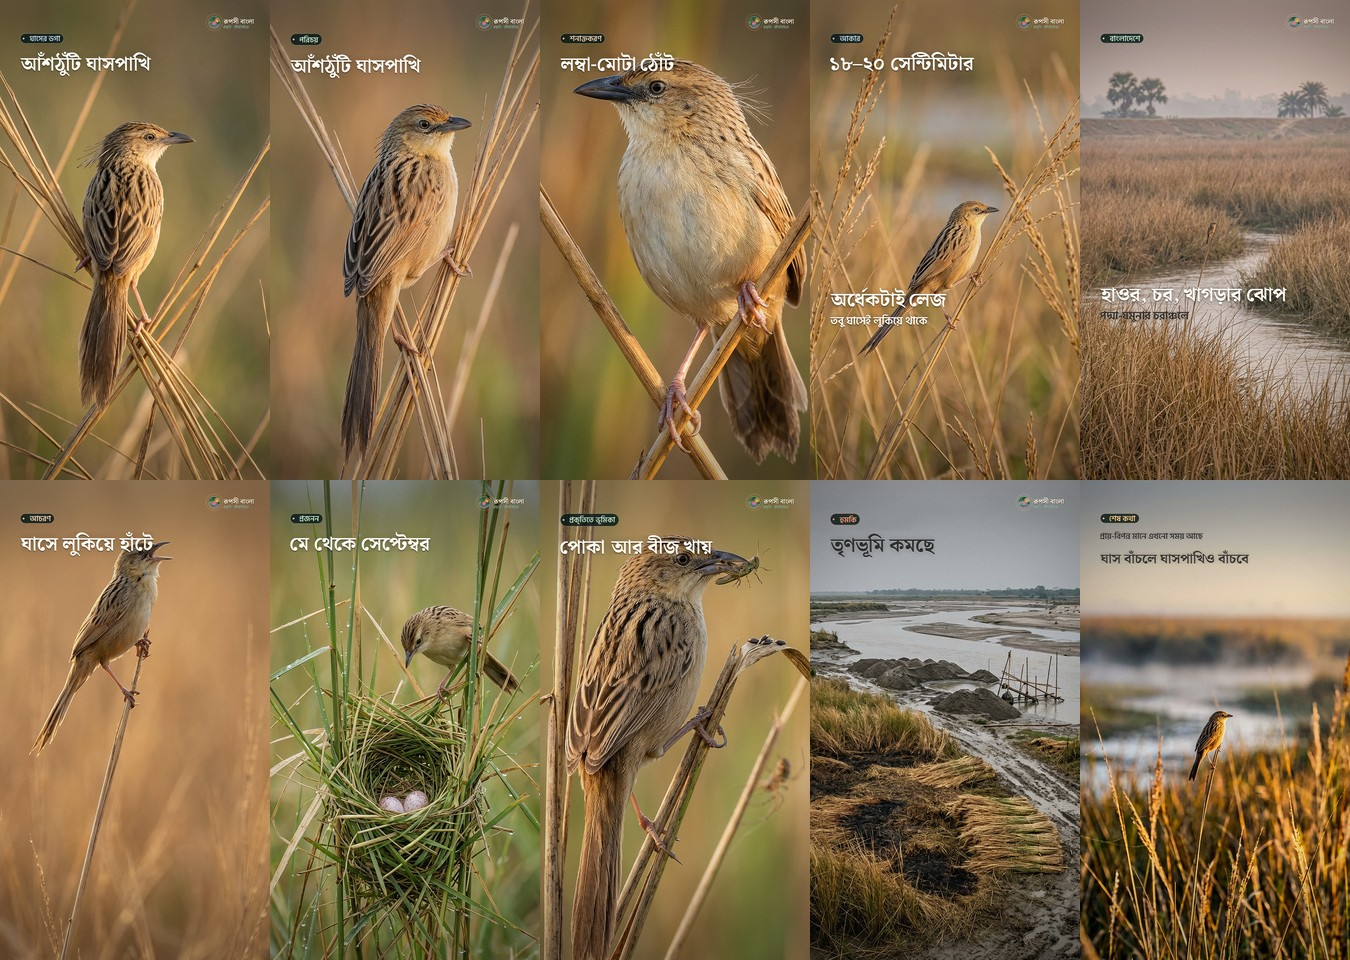
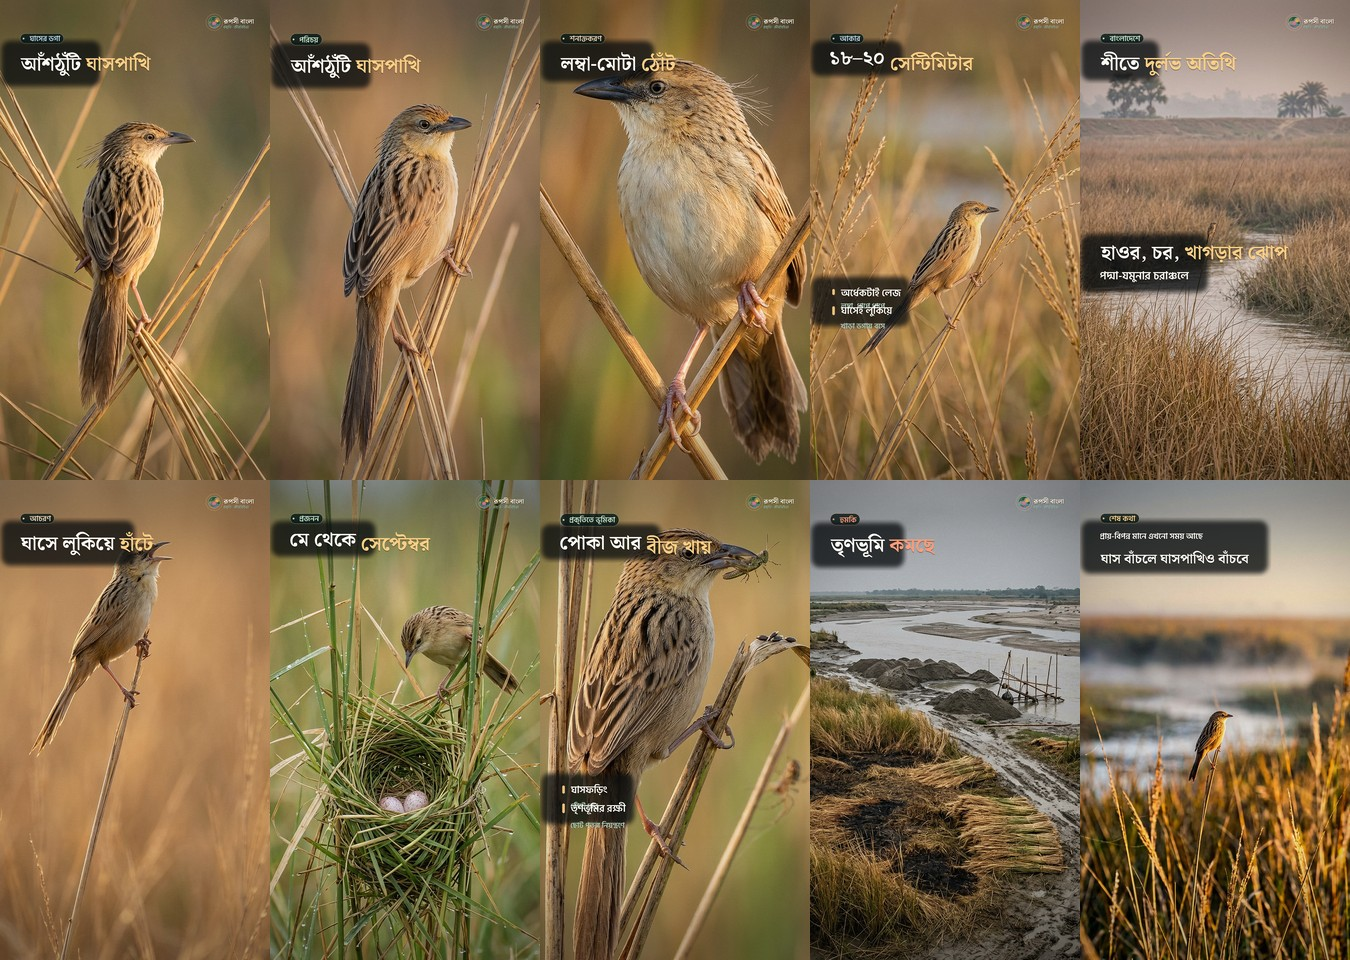
রিল ০১২ v2: রেফারেন্স টেক্সট-স্টাইল — গাঢ় গোলাকার প্যানেল, দুই-রঙা ডিসপ্লে লাইন, বুলেট লিস্ট রো

diff --git a/.studio/v3/build_grass.py b/.studio/v3/build_grass.py
@@ -151,6 +151,8 @@ STYLE = {
     "sub":   ("sans-semi", 44 * SCALE, "rise"),
     "attr":  ("sans-semi", 32 * SCALE, "rise"),
     "quote": ("serif-bold", 54 * SCALE, "word"),
+    "list":  ("sans-semi", 40 * SCALE, "rise"),   # bullet row inside a panel
+    "list2": ("sans-semi", 30 * SCALE, "rise"),   # its grey-green sub-line
 }
 
 
@@ -189,7 +191,93 @@ def pick_ink(img, box, hint=None):
     return (18, 20, 22), "flat"
 
 
-def draw_line(img, style, txt, colour, y, align, e, x0=None):
+PANEL_RGBA = (9, 13, 15)        # near-black, carries no colour cast
+PANEL_A = 176
+PANEL_RADIUS = 34 * SCALE
+PANEL_PAD = (52 * SCALE, 40 * SCALE)
+
+
+def glyph_box(lay, x, y):
+    """True ink box of a text layer (T.flow pads the mask heavily)."""
+    bb = lay.image.getbbox()
+    if not bb:
+        return None
+    return (x + bb[0], y + bb[1], x + bb[2], y + bb[3])
+
+
+def panel(img, box, e, radius=None, alpha=None, fill=None):
+    """A rounded, softly feathered dark plate that hugs the type block.
+
+    This is the reference style: the caption sits on its own small plate so the
+    photograph keeps its quality everywhere else in the frame — no full-frame
+    scrim, no glow, no gradient wash.
+    """
+    if e <= 0.004:
+        return
+    x0, y0, x1, y1 = [int(v) for v in box]
+    r = PANEL_RADIUS if radius is None else radius
+    a = int((PANEL_A if alpha is None else alpha) * e)
+    fill = PANEL_RGBA if fill is None else fill
+    # a 26px feather keeps the plate from reading as a hard "box"
+    pad = 26 * SCALE
+    w, h = (x1 - x0) + pad * 2, (y1 - y0) + pad * 2
+    plate = Image.new("RGBA", (w, h), (0, 0, 0, 0))
+    d = ImageDraw.Draw(plate)
+    d.rounded_rectangle([pad // 2, pad // 2, w - pad // 2 - 1, h - pad // 2 - 1],
+                        radius=r, fill=fill + (a,))
+    plate = plate.filter(ImageFilter.GaussianBlur(14 * SCALE))
+    # paste the small plate at its own position — the canvas is far larger
+    base = img.convert("RGBA")
+    base.alpha_composite(plate, (x0 - pad, y0 - pad))
+    img.paste(base.convert("RGB"), (0, 0))
+
+
+def bullet_row(img, txt, sub, x, y, e, colour, bar=C_GOLD):
+    """Reference list row: colour bar, cream title, grey-green sub-line."""
+    if e <= 0.004:
+        return
+    lay = T.flow(txt, "sans-semi", 40 * SCALE)
+    sub_lay = T.flow(sub, "sans-semi", 30 * SCALE) if sub else None
+    bb = lay.image.getbbox() or (0, 0, lay.width, lay.image.height)
+    bh = int(bb[3] - bb[1])
+    bar_w = 10 * SCALE
+    d = ImageDraw.Draw(img, "RGBA")
+    d.rounded_rectangle([x, y + bb[1] + 6 * SCALE, x + bar_w, y + bb[3] - 6 * SCALE],
+                        radius=bar_w // 2, fill=bar + (int(235 * e),))
+    T.paint(img, lay.image, (int(x + 34 * SCALE), int(y)), C_CREAM, e,
+            shadow=(0, 3 * SCALE, (0, 0, 0), 0.30))
+    if sub_lay is not None:
+        T.paint(img, sub_lay.image, (int(x + 34 * SCALE), int(y + bh + 26 * SCALE)),
+                (176, 206, 190), e, shadow=(0, 2 * SCALE, (0, 0, 0), 0.24))
+
+
+def draw_twotone(img, head, tail, accent, y, align, e):
+    """Reference display line: cream first half, accent second half, one row."""
+    if e <= 0.004:
+        return
+    key, px, _a = STYLE["title"]
+    head_lay = T.flow(head + " ", key, px)
+    full_lay = T.flow(head + " " + tail, key, px)
+    xx = int((W - full_lay.width) / 2) if align == "mid" else int(W * 0.075)
+    ink = (255, 252, 245)
+    shadow = (0, 3 * SCALE, (0, 0, 0), 0.34)
+    T.paint(img, head_lay.image, (xx, y), ink, e, shadow=shadow)
+    tail_mask = full_lay.image.crop((head_lay.width, 0, full_lay.image.width,
+                                     full_lay.image.height))
+    T.paint(img, tail_mask, (xx + head_lay.width, y), accent, e, shadow=shadow)
+
+
+def _group_rows(rows):
+    out = []
+    for r in rows:
+        if out and out[-1][0][0] == r[0]:
+            out[-1].append(r)
+        else:
+            out.append([r])
+    return out
+
+
+def draw_line(img, style, txt, colour, y, align, e, x0=None, plated=False):
     if e <= 0.004:
         return
     key, px, anim = STYLE[style]
@@ -201,10 +289,16 @@ def draw_line(img, style, txt, colour, y, align, e, x0=None):
         K.chip(img, txt, (x0, y), e, px=30 * SCALE, colour=colour, icon="dot",
                slide=40 * SCALE)
         return
+    if style == "list":                       # txt may carry "head|sub"
+        head, _, sub = txt.partition("|")
+        bullet_row(img, head, sub, x0 + 8 * SCALE, y, e, colour)
+        return
 
     ink, kind = pick_ink(img, (xx - 8, y - 8, xx + lay.width + 8,
                                y + lay.image.height + 12), hint=colour)
-    if kind == "light":
+    if plated:
+        ink, kind = ((255, 252, 245), "light")
+    if kind == "light" and not plated:
         # white type on a busy photo: a *dark* feather behind the glyphs, made
         # from the photo's own average tone, kept well clear of the letters
         busy = V._edge_energy(img, (xx, y, xx + lay.width, y + lay.image.height))
@@ -218,7 +312,7 @@ def draw_line(img, style, txt, colour, y, align, e, x0=None):
         img.paste(Image.alpha_composite(base, halo).convert("RGB"), (0, 0))
         shadow = (0, 4 * SCALE, (0, 0, 0), 0.34)
         glow = None
-    else:
+    elif kind != "light":
         # dark type on bright plumage: a pale feather behind the glyphs
         busy = V._edge_energy(img, (xx, y, xx + lay.width, y + lay.image.height))
         a = int(min(190, 96 + 150 * busy))
@@ -229,6 +323,9 @@ def draw_line(img, style, txt, colour, y, align, e, x0=None):
         base = img.convert("RGBA")
         img.paste(Image.alpha_composite(base, halo).convert("RGB"), (0, 0))
         shadow = (0, 3 * SCALE, (255, 255, 255), 0.22)
+        glow = None
+    else:
+        shadow = (0, 3 * SCALE, (0, 0, 0), 0.34)
         glow = None
 
     if center:
@@ -432,64 +529,64 @@ def resolve_cues():
 BEATS = {
     "s01": [
         (0, "chip", "ঘাসের ডগা", C_SKY, 268, "left"),
-        (0, "title", "আঁশঠুঁটি ঘাসপাখি", C_CREAM, 340, "left"),
-        (1, "title", "ডাক শুনে খুঁজে পেতে হয়", C_GOLD, 1180, "left"),
+        (0, "title", "আঁশঠুঁটি|ঘাসপাখি", C_GOLD, 340, "left"),
+        (1, "title", "ডাক শুনেই|খুঁজে পেতে হয়", C_GOLD, 1140, "left"),
         (2, "sub", "কর্কশ ঘর্ঘর, তারপর নীরবতা", C_CREAM, 1300, "left"),
     ],
     "s02": [
         (0, "chip", "পরিচয়", C_MINT, 268, "left"),
-        (0, "title", "আঁশঠুঁটি ঘাসপাখি", C_CREAM, 340, "left"),
+        (0, "title", "আঁশঠুঁটি|ঘাসপাখি", C_GOLD, 340, "left"),
         (1, "attr", "ইংরেজিতে Bristled Grassbird", C_MINT, 1180, "left"),
         (2, "attr", "Schoenicola striatus", C_MINT, 1288, "left"),
     ],
     "s03": [
         (0, "chip", "শনাক্তকরণ", C_SAND, 268, "left"),
-        (0, "title", "লম্বা-মোটা ঠোঁট", C_CREAM, 340, "left"),
-        (1, "title", "ঘাড়ে টানা আঁশ-পালক", C_GOLD, 1180, "left"),
+        (0, "title", "লম্বা-মোটা|ঠোঁট", C_GOLD, 340, "left"),
+        (1, "title", "ঘাড়ে|টানা আঁশ-পালক", C_GOLD, 1180, "left"),
         (2, "sub", "পিঠে বাদামি ডোরা", C_CREAM, 1300, "left"),
     ],
     "s04": [
         (0, "chip", "আকার", C_SKY, 268, "left"),
-        (0, "title", "১৮–২০ সেন্টিমিটার", C_CREAM, 340, "left"),
-        (1, "title", "অর্ধেকটাই লেজ", C_GOLD, 1180, "left"),
-        (1, "sub", "তবু ঘাসেই লুকিয়ে থাকে", C_CREAM, 1300, "left"),
+        (0, "title", "১৮–২০|সেন্টিমিটার", C_GOLD, 340, "left"),
+        (1, "list", "অর্ধেকটাই লেজ|লম্বা, ধাপে ধাপে", C_GOLD, 1180, "left"),
+        (1, "list", "ঘাসেই লুকিয়ে|খাড়া ডগায় বসে", C_GOLD, -1, "left"),
     ],
     "s05": [
         (0, "chip", "বাংলাদেশে", C_MINT, 268, "left"),
-        (0, "title", "শীতে দুর্লভ অতিথি", C_CREAM, 340, "left"),
-        (1, "title", "হাওর, চর, খাগড়ার ঝোপ", C_GOLD, 1180, "left"),
+        (0, "title", "শীতে|দুর্লভ অতিথি", C_GOLD, 340, "left"),
+        (1, "title", "হাওর, চর,|খাগড়ার ঝোপ", C_GOLD, 1180, "left"),
         (1, "sub", "পদ্মা-যমুনার চরাঞ্চলে", C_CREAM, 1300, "left"),
     ],
     "s06": [
         (0, "chip", "আচরণ", C_SAND, 268, "left"),
-        (0, "title", "ঘাসে লুকিয়ে হাঁটে", C_CREAM, 340, "left"),
-        (1, "title", "ডাকতে ডাকতে ডগায় ওঠে", C_GOLD, 1180, "left"),
+        (0, "title", "ঘাসে লুকিয়ে|হাঁটে", C_GOLD, 340, "left"),
+        (1, "title", "ডাকতে ডাকতে|ডগায় ওঠে", C_GOLD, 1180, "left"),
         (2, "sub", "মানুষ দেখলে মিলিয়ে যায়", C_CREAM, 1300, "left"),
     ],
     "s07": [
         (0, "chip", "প্রজনন", C_MINT, 268, "left"),
-        (0, "title", "মে থেকে সেপ্টেম্বর", C_CREAM, 340, "left"),
-        (1, "title", "ঘাস বুনে বাসা", C_GOLD, 1180, "left"),
+        (0, "title", "মে থেকে|সেপ্টেম্বর", C_GOLD, 340, "left"),
+        (1, "title", "ঘাস বুনে|বাসা", C_GOLD, 1180, "left"),
         (2, "sub", "২–৩টি ডিম, বর্ষার ভেতর", C_CREAM, 1300, "left"),
     ],
     "s08": [
         (0, "chip", "প্রকৃতিতে ভূমিকা", C_MINT, 268, "left"),
-        (0, "title", "পোকা আর বীজ খায়", C_CREAM, 340, "left"),
-        (1, "title", "তৃণভূমির ছোট্ট রক্ষী", C_GOLD, 1180, "left"),
-        (2, "sub", "ঘাসফড়িং নিয়ন্ত্রণে রাখে", C_CREAM, 1300, "left"),
+        (0, "title", "পোকা আর|বীজ খায়", C_GOLD, 340, "left"),
+        (1, "list", "ঘাসফড়িং|ঠোঁটে ধরে", C_GOLD, 1180, "left"),
+        (1, "list", "তৃণভূমির রক্ষী|ছোট পতঙ্গ নিয়ন্ত্রণে", C_GOLD, -1, "left"),
     ],
     "s09": [
         (0, "chip", "হুমকি", C_CORAL, 268, "left"),
-        (0, "title", "তৃণভূমি কমছে", C_CORAL, 340, "left"),
-        (1, "title", "চরে চলছে বালু উত্তোলন", C_CORAL, 1180, "left"),
+        (0, "title", "তৃণভূমি|কমছে", C_CORAL, 340, "left"),
+        (1, "title", "চরে চলছে|বালু উত্তোলন", C_CORAL, 1180, "left"),
         (2, "attr", "IUCN: NT · প্রায়-বিপন্ন", C_SAND, 1300, "left"),
     ],
     "s10": [
         (0, "chip", "শেষ কথা", C_GOLD, 268, "left"),
         (0, "attr", "প্রায়-বিপন্ন মানে এখনো সময় আছে", C_MINT, 350, "left"),
         (0, "quote", "ঘাস বাঁচলে ঘাসপাখিও বাঁচবে", C_CREAM, 440, "left"),
-        (1, "title", "তৃণভূমি বাঁচান", C_CREAM, 1050, "left"),
-        (2, "title", "বালু উত্তোলন বন্ধ করুন", C_GOLD, 1166, "left"),
+        (1, "title", "তৃণভূমি|বাঁচান", C_GOLD, 1050, "left"),
+        (2, "title", "বালু উত্তোলন|বন্ধ করুন", C_GOLD, 1166, "left"),
     ],
 }
 
@@ -627,14 +724,39 @@ def overlay(s, p, img):
     # A row index beyond the measured sentence windows must still be drawn — it
     # rides on the last window. Dropping it silently left whole captions missing
     # on short scenes (a 2-sentence line under 4 type rows).
-    for idx, style, txt, colour, y, align in placed_beats(s):
-        if idx >= len(segs):
-            idx = len(segs) - 1
-        a0, b0 = segs[idx]
+    # A group of rows that share a beat index shares ONE plate — that is the
+    # reference look (chip on its own pill, then title + sub on one soft panel).
+    for grp in _group_rows(placed_beats(s)):
+        idx0 = grp[0][0]
+        if idx0 >= len(segs):
+            idx0 = len(segs) - 1
+        a0, b0 = segs[idx0]
         e_in = K.ss(a0 - 0.08, a0 + 0.34, v)
-        e_out = 1.0 if idx + 1 >= len(segs) or style in ("chip", "attr") \
+        e_out = 1.0 if idx0 + 1 >= len(segs) or any(
+            r[1] in ("chip", "attr") for r in grp) \
             else 1.0 - K.ss(b0 + 0.04, b0 + 0.40, v)
-        draw_line(img, style, txt, colour, y, align, e_in * e_out * fade_all)
+        e = e_in * e_out * fade_all
+        boxes = []
+        for _i, style, txt, colour, y, align in grp:
+            if style == "chip":
+                continue
+            _k, _px, _a = STYLE.get(style, ("sans-semi", 40, "rise"))
+            lay = T.flow(txt.replace("|", " "), _k, _px)
+            x = int((W - lay.width) / 2) if align == "mid" else int(W * 0.075)
+            bb = lay.image.getbbox()
+            if bb:
+                boxes.append((x + bb[0] - 62 * SCALE, y + bb[1] - 30 * SCALE,
+                              x + bb[2] + 62 * SCALE, y + bb[3] + 26 * SCALE))
+        if boxes:
+            panel(img, (min(b[0] for b in boxes), min(b[1] for b in boxes),
+                        max(b[2] for b in boxes), max(b[3] for b in boxes)), e)
+        for _i, style, txt, colour, y, align in grp:
+            if style in ("title", "num") and "|" in txt:
+                # two-tone display line: "first part|accent part", laid on one line
+                head, _, tail = txt.partition("|")
+                draw_twotone(img, head, tail, colour, y, align, e)
+                continue
+            draw_line(img, style, txt, colour, y, align, e, plated=True)
 
     if kind == "outro":
         cue = s["cue"]
